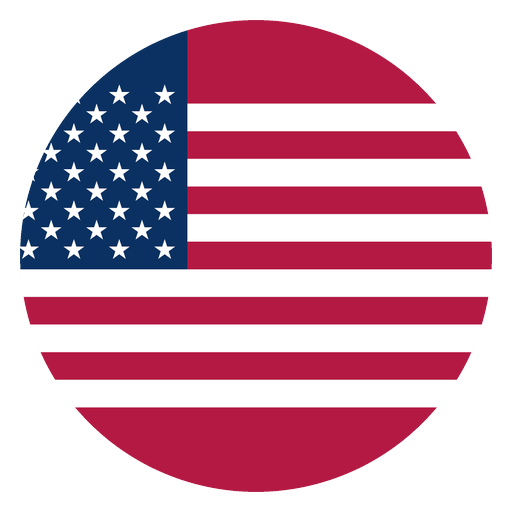
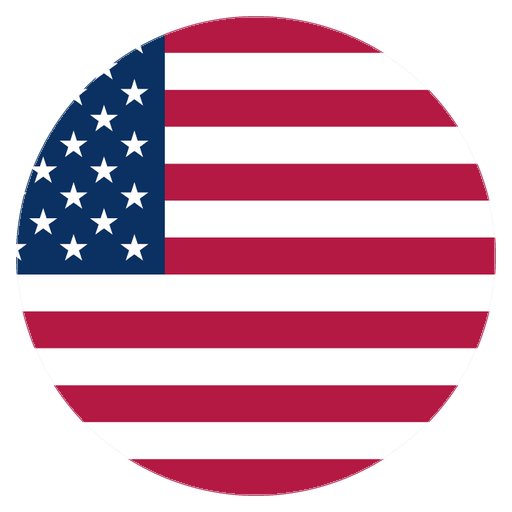
fix(ui): restore circular disks and shared translucent flag halo
Use Chile-style circular cover assets for AR/MX/US and add an inset
ring on .flag-btn so every badge keeps the translucent gap between
the flag disk and the outer border.

diff --git a/index.html b/index.html
@@ -465,12 +465,13 @@
     }
 
     .flag-btn {
+      position: relative;
       width: 72px;
       height: 72px;
       border-radius: 50%;
       border: 2px solid rgba(255, 255, 255, 0.42);
-      /* Se ve a través del margen transparente de las PNGs circulares (= halo) */
-      background: rgba(0, 0, 0, 0.28);
+      /* Fondo que se ve por el margen transparente de la PNG (= halo) */
+      background: rgba(0, 0, 0, 0.32);
       box-shadow: 0 4px 16px rgba(0, 0, 0, 0.35);
       display: flex;
       align-items: center;
@@ -479,6 +480,15 @@
       text-decoration: none;
       cursor: pointer;
       transition: border-color 0.2s, box-shadow 0.2s, transform 0.2s;
+    }
+    /* Anillo interno translúcido — iguala el hueco disco↔borde de las banderas clásicas */
+    .flag-btn::after {
+      content: "";
+      position: absolute;
+      inset: 0;
+      border-radius: 50%;
+      box-shadow: inset 0 0 0 3px rgba(0, 0, 0, 0.38);
+      pointer-events: none;
     }
     .hero-flag-hit .flag-caption.live {
       text-decoration: none;
